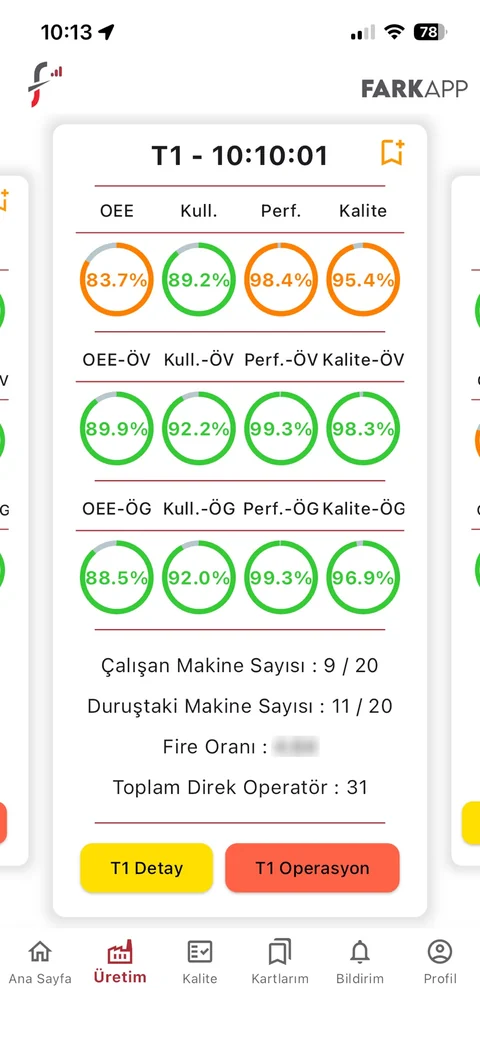
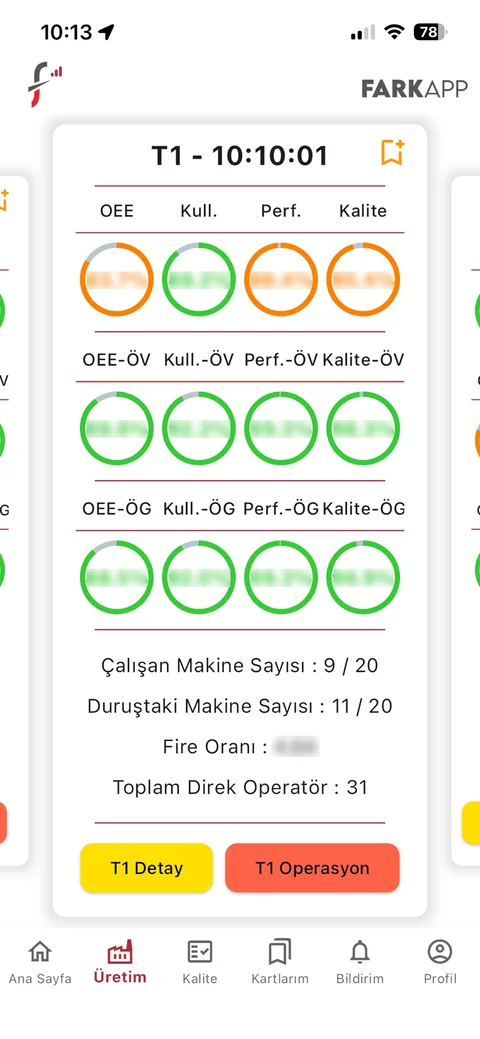
Add files via upload

diff --git a/assets/css/main.css b/assets/css/main.css
@@ -251,8 +251,11 @@ h1{font-size:clamp(2.6rem,5.4vw,4.1rem);line-height:1.02}
 }
 @media (max-width:820px){
   :root{--header-h:64px}
-  .brand-logo{height:34px}
-  .site-header.is-scrolled .brand-logo{height:30px}
+  /* Mobilde üst bar hep küçük modda kalır (kaydırınca büyüyüp küçülmez); menü düğmesi alt satıra inmez */
+  .brand-logo,.site-header.is-scrolled .brand-logo{height:30px}
+  .js .header-row{flex-wrap:nowrap;gap:.5rem}
+  .brand{min-width:0}
+  .lang-switch a{min-width:2.2rem;padding:.55rem .45rem}
   .js .nav-toggle{display:inline-flex}
   .lang-switch{margin-left:.5rem}
   .js .nav{display:none;position:absolute;top:100%;left:0;right:0;flex-direction:column;align-items:stretch;gap:0;padding:.5rem 1.5rem 1.25rem;background:#fff;border-bottom:1px solid var(--line);box-shadow:0 18px 30px rgba(5,41,77,.14)}
@@ -263,6 +266,9 @@ h1{font-size:clamp(2.6rem,5.4vw,4.1rem);line-height:1.02}
   .nav{gap:1rem 1.25rem}
 }
 @media (max-width:640px){
+  /* Müşteri logoları: iki sütun (solda 3, sağda 2) */
+  .clients-list{display:grid;grid-template-columns:repeat(2,minmax(0,1fr));gap:1.5rem 1rem;justify-items:center;align-items:center}
+  .clients-list img{height:calc(var(--h) * .85)}
   .media-galeri{aspect-ratio:4/3}
   .slide{padding:.8rem .8rem 3.4rem}
   .tech-grid{grid-template-columns:repeat(2,minmax(0,1fr))}
